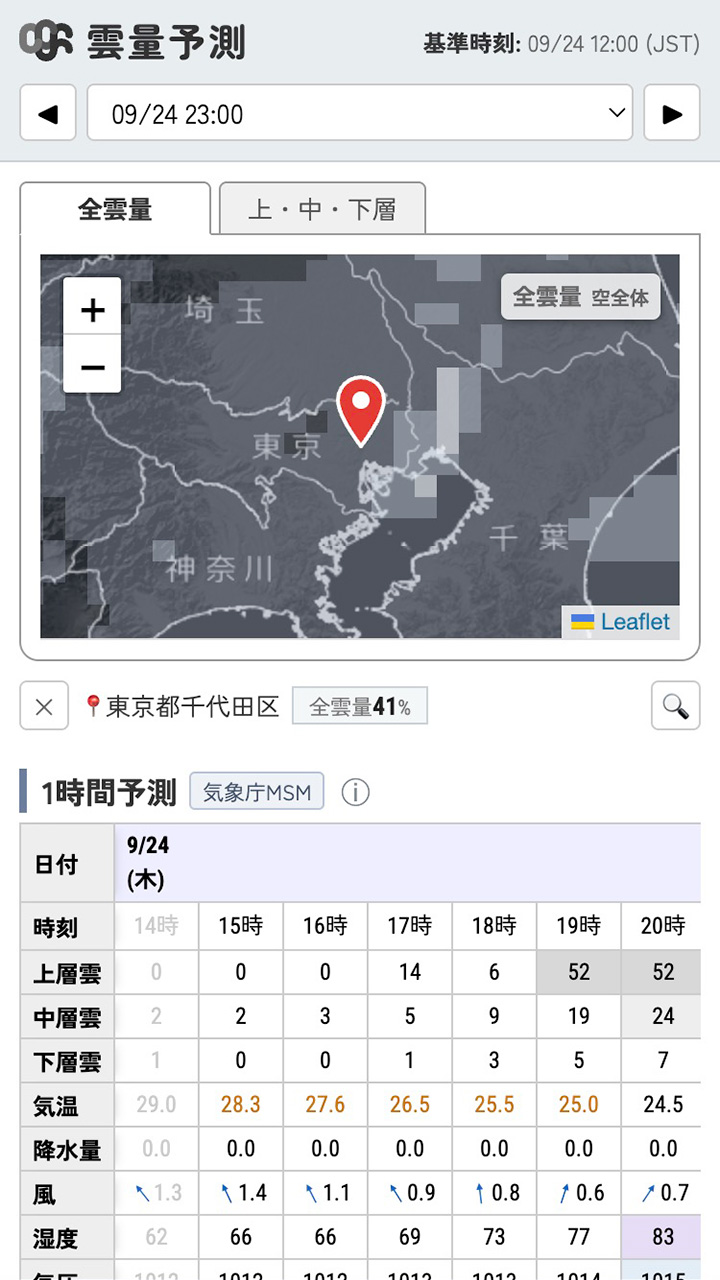
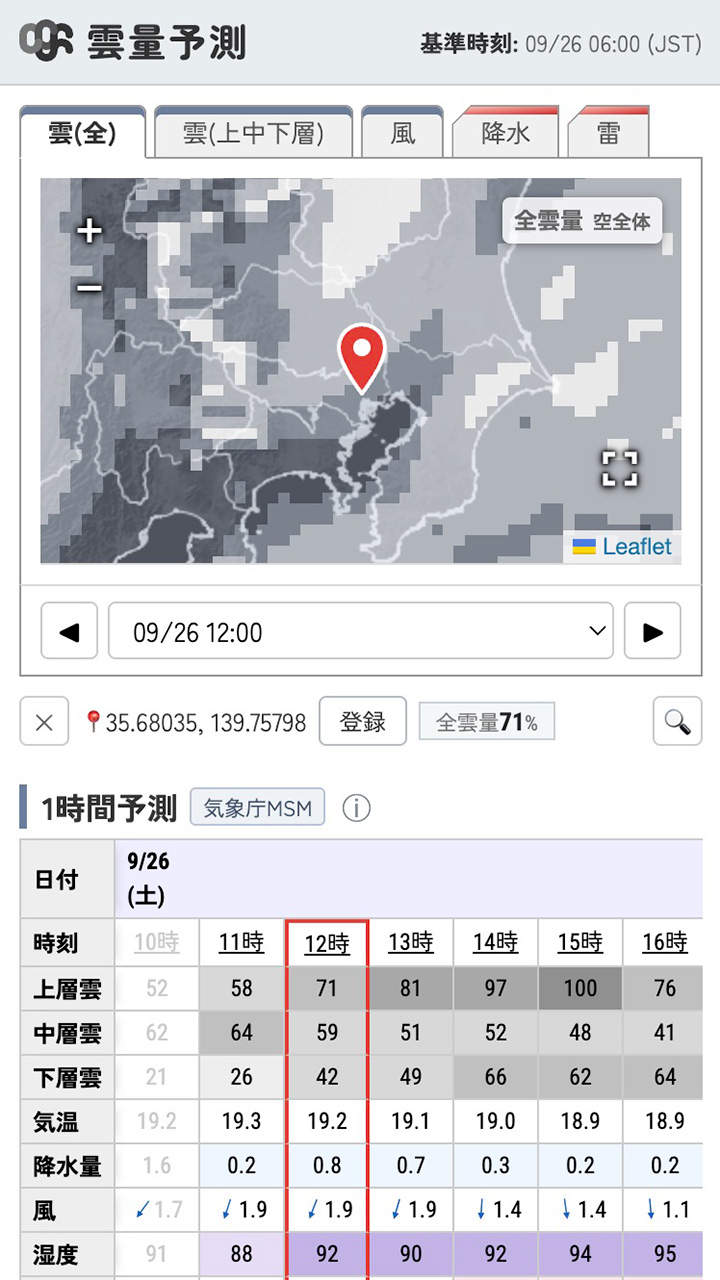
地点保存を改修

diff --git a/places.js b/places.js
@@ -1,4 +1,4 @@
-// 保存した地点（localStorage）。一覧UIは持たず、地図上のグレー丸とメニューだけで完結する。
+// 保存した地点（localStorage）。一覧UIは持たず、地図上の水色の丸とメニューだけで完結する。
 import { formatLatLng } from './pin.js';
 
 const STORAGE_KEY = 'ccf-places';
@@ -279,7 +279,7 @@ export class PlacesController {
         for (const group of this.groups) group.clearLayers();
 
         for (const place of this.places) {
-            // 赤ピンと同じ地点のグレー丸は隠す（重なり対策）
+            // 赤ピンと同じ地点の保存丸は隠す（重なり対策）
             if (pin && samePoint(place, pin)) continue;
 
             this.maps.forEach((map, i) => {

diff --git a/styles.css b/styles.css
@@ -840,7 +840,7 @@ button, select, option, input {
     pointer-events: none;
 }
 
-/* 保存地点のグレー丸（赤ピンより小さく・下に潜る） */
+/* 保存地点の丸（赤ピンより小さく・下に潜る。雲タイルに溶けないシアン） */
 .place-marker {
     background: none;
     border: none;
@@ -849,7 +849,7 @@ button, select, option, input {
     display: block;
     width: 12px;
     height: 12px;
-    background: #757575;
+    background: #00acc1;
     border: 2px solid #fff;
     border-radius: 50%;
     box-shadow: 0 1px 3px rgba(0, 0, 0, 0.4);

diff --git a/README.md b/README.md
@@ -67,8 +67,8 @@
 | ピンを消す | 地図の下の「×」 |
 | 地点を探す | 地図の下の検索欄（スマホは🔍） |
 | 地点を保存する | ピンをタップして「登録」、または地点名の横の「登録」 |
-| 保存した地点を開く | 地図上のグレーの丸をタップ（その地点にピンが立つ） |
-| 保存した地点を直す・消す | グレーの丸またはピンをタップ → 編集 / 削除 |
+| 保存した地点を開く | 地図上の水色の丸をタップ（その地点にピンが立つ） |
+| 保存した地点を直す・消す | 水色の丸またはピンをタップ → 編集 / 削除 |
 | データの説明を見る | 各表の見出しの「ⓘ」 |
 
 **現在地**
@@ -79,7 +79,11 @@
 
 **保存した地点**
 
-よく見る場所は地図上にグレーの丸として残しておけます。一覧画面はなく、地図上の丸だけが手がかりです。データはこの端末のブラウザ内にだけ保存され、サーバーへ送ることはありません（サイトのデータ削除や別ブラウザでは見えなくなります）。
+よく見る場所は地図上に水色の丸として残しておけます。一覧画面はなく、地図上の丸だけが手がかりです。データはこの端末のブラウザ内にだけ保存され、サーバーへ送ることはありません（サイトのデータ削除や別ブラウザでは見えなくなります）。
+
+![保存した地点のメニュー（編集・削除）](icons/ccf-screenshot-pc-places.jpg)
+
+![地点名の編集](icons/ccf-screenshot-pc-places-edit.jpg)
 
 **検索欄に入れられるもの**
 
